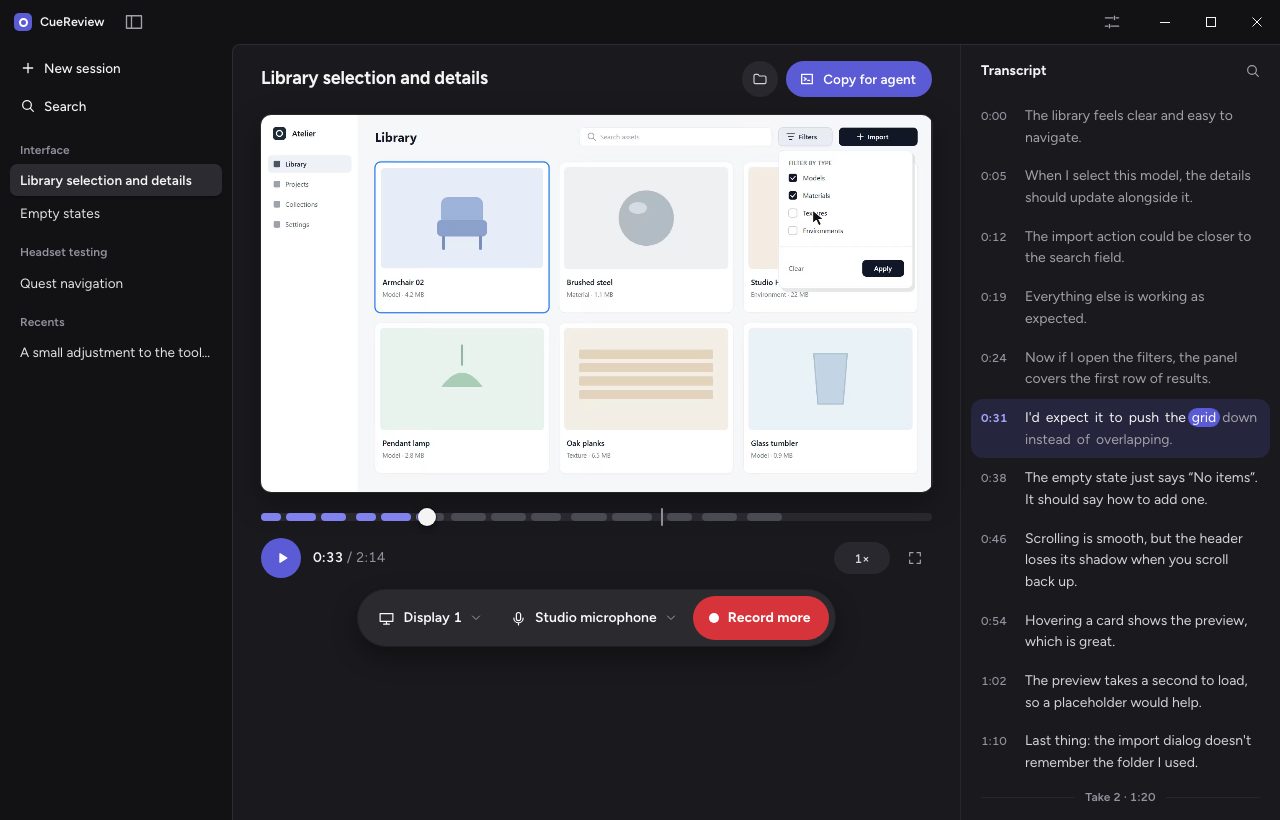
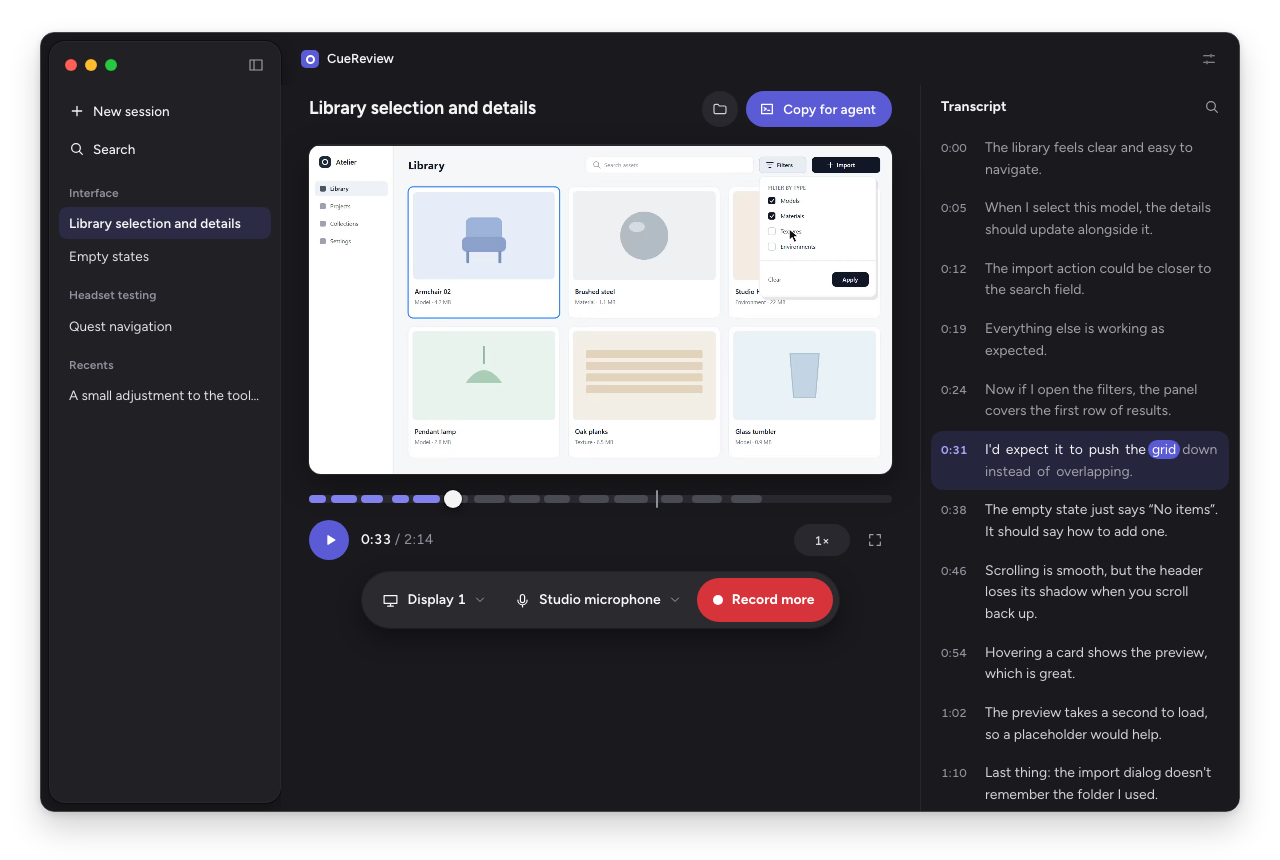
Frame the README screenshots as macOS app windows
Show the macOS review workspace with its window controls, rounded
outer corners, a subtle border and a shadow. Keep the surrounding
pixels transparent so both theme images sit cleanly on GitHub.

Verify both captures visually and check the PNG size and alpha channel.
Update the screenshot description and rerun the documentation gate.

diff --git a/README.md b/README.md
@@ -20,10 +20,10 @@ CueReview turns a spoken walkthrough into feedback your coding agent can inspect
 
 <picture>
   <source media="(prefers-color-scheme: dark)" srcset="docs/images/cuereview-dark.png">
-  <img src="docs/images/cuereview-light.png" width="1280" alt="CueReview review workspace with recordings in the sidebar, video playback, a word-highlighted transcript, Record more and Copy for agent.">
+  <img src="docs/images/cuereview-light.png" width="1280" alt="CueReview in a rounded macOS app window with recordings in the sidebar, video playback, a word-highlighted transcript, Record more and Copy for agent.">
 </picture>
 
-<p align="center"><sub>The CueReview workspace in light and dark themes, shown with a sample review from the UI workshop.</sub></p>
+<p align="center"><sub>The CueReview macOS workspace in light and dark themes, shown with a sample review from the UI workshop.</sub></p>
 
 ## Why CueReview
 
